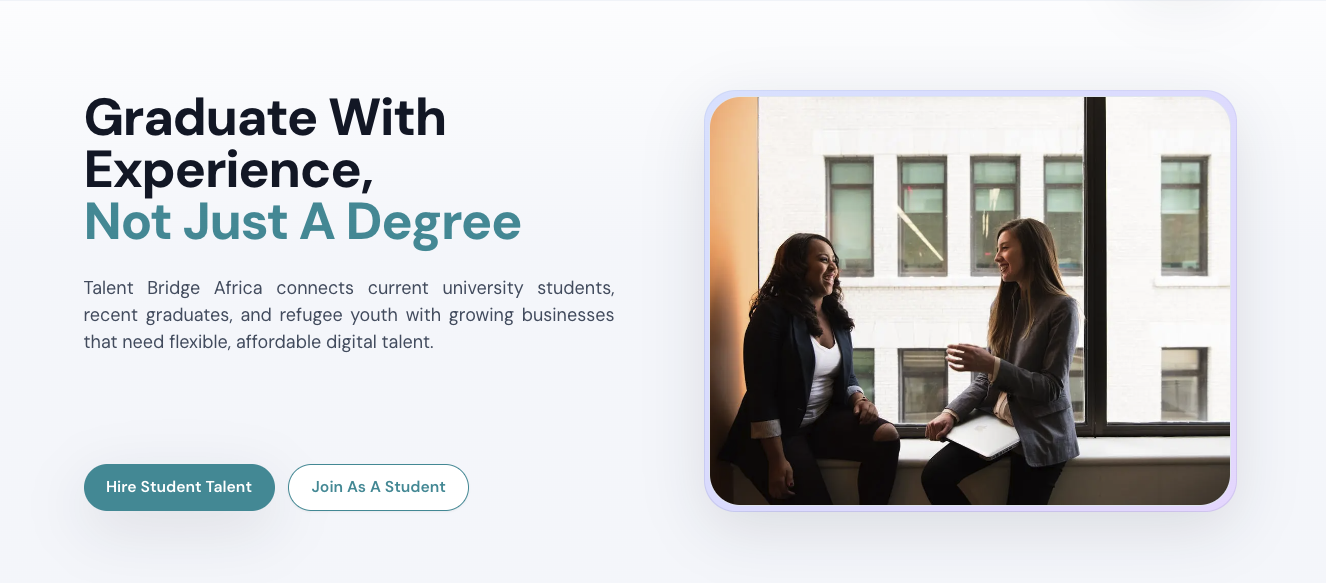
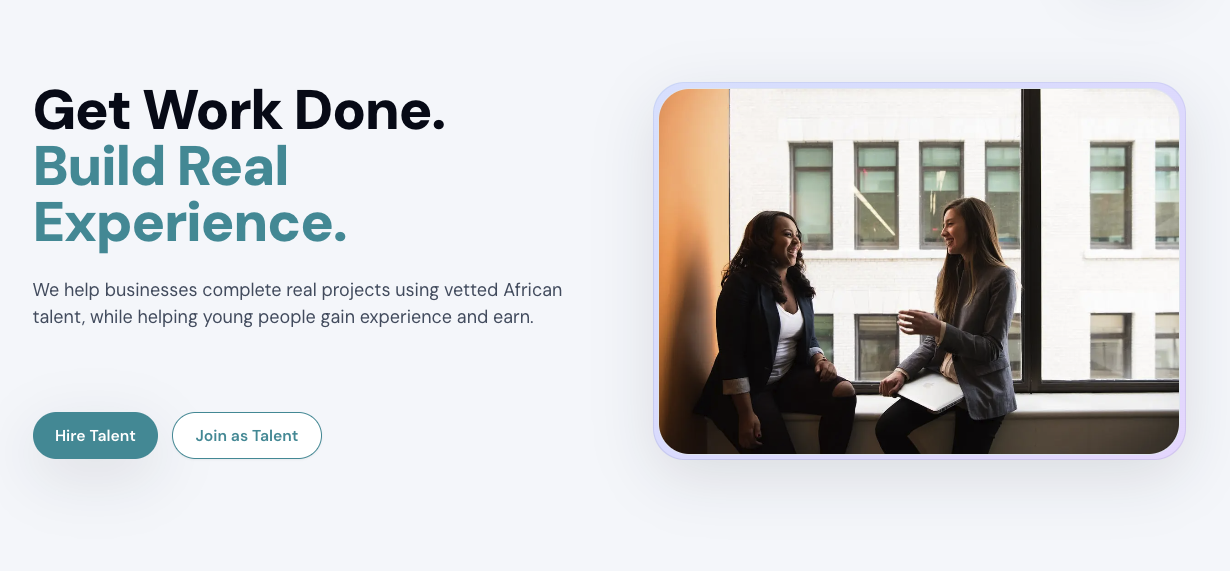
updates

diff --git a/src/app/experience/page.tsx b/src/app/experience/page.tsx
@@ -3,25 +3,110 @@ import Link from "next/link"
 import { ExperienceTimeline } from "./experience-timeline"
 import { experiences } from "@/data/experience"
 import { generatePageSEO } from "@/lib/seo"
-import { ArrowRight, BarChart3, Users, TrendingUp, Calendar } from "lucide-react"
+import {
+  ArrowRight,
+  BarChart3,
+  Users,
+  TrendingUp,
+  Calendar,
+  LineChart,
+  Shield,
+  ScanEye,
+  HeartHandshake,
+  Code,
+} from "lucide-react"
 
 export const metadata: Metadata = generatePageSEO(
   "Experience - Prince Iranzi",
-  "Explore Prince Iranzi's professional experience in software engineering and digital marketing. From freelance projects to full-time roles across East Africa.",
+  "Explore Prince Iranzi's professional experience: data analysis, cybersecurity, perception annotation, social entrepreneurship, software engineering, and digital marketing across East Africa.",
   "/experience"
 )
+
+const domainAreas = [
+  {
+    title: "Data Analysis",
+    description:
+      "Exploring patterns, metrics, and evidence to inform decisions: dashboards, reporting, and turning raw information into clear, actionable insight.",
+    Icon: LineChart,
+  },
+  {
+    title: "Cybersecurity",
+    description:
+      "Building and operating with security in mind: threat awareness, safe practices in development, and protecting users and systems.",
+    Icon: Shield,
+  },
+  {
+    title: "Perception Annotation",
+    description:
+      "Contributing to high-quality training data through careful labeling and human-in-the-loop workflows that improve how models understand the world.",
+    Icon: ScanEye,
+  },
+  {
+    title: "Social Entrepreneurship",
+    description:
+      "Designing initiatives that pair impact with sustainability, including ventures and projects where social good and long-term viability go hand in hand.",
+    Icon: HeartHandshake,
+  },
+  {
+    title: "Software Engineering",
+    description:
+      "Full-stack development: web and mobile apps, APIs, PWAs, and reliable systems built with modern stacks from React and Next.js to databases and cloud deployment.",
+    Icon: Code,
+  },
+  {
+    title: "Digital Marketing",
+    description:
+      "Growth-focused campaigns: SEO, content, social media, and paid ads, measuring what works and iterating to reach the right audiences with clear results.",
+    Icon: TrendingUp,
+  },
+] as const
 
 export default function ExperiencePage() {
   return (
     <div className="py-16 sm:py-20 px-4 sm:px-6 lg:px-8">
-      <div className="container mx-auto max-w-4xl">
+      <div className="site-content">
+        {/* Additional domains (first) */}
+        <section className="mb-16 sm:mb-20" aria-labelledby="domains-heading">
+          <h2
+            id="domains-heading"
+            className="text-2xl sm:text-3xl font-bold text-foreground font-display text-center mb-3"
+          >
+            Broader domains
+          </h2>
+          <p className="text-center text-muted-foreground max-w-2xl mx-auto mb-10 text-sm sm:text-base leading-relaxed">
+            Data analysis, cybersecurity, perception annotation, social entrepreneurship,
+            software engineering, and digital marketing. I deepen my practice in these domains
+            through study, projects, or mission-driven work.
+          </p>
+          <div className="grid grid-cols-1 sm:grid-cols-2 gap-4 sm:gap-6">
+            {domainAreas.map(({ title, description, Icon }) => (
+              <div
+                key={title}
+                className="rounded-xl border border-border/60 bg-card/50 p-6 sm:p-7 hover:border-primary/30 hover:shadow-md hover:shadow-primary/5 transition-all duration-300"
+              >
+                <div className="flex items-start gap-4">
+                  <div className="flex h-11 w-11 shrink-0 items-center justify-center rounded-lg bg-primary/10 text-primary">
+                    <Icon className="h-5 w-5" aria-hidden />
+                  </div>
+                  <div className="min-w-0">
+                    <h3 className="text-lg font-semibold text-foreground font-display mb-2">
+                      {title}
+                    </h3>
+                    <p className="text-sm text-muted-foreground leading-relaxed">{description}</p>
+                  </div>
+                </div>
+              </div>
+            ))}
+          </div>
+        </section>
+
         {/* Header */}
         <header className="text-center mb-16 sm:mb-20">
           <h1 className="text-4xl sm:text-5xl lg:text-6xl font-bold text-foreground font-display tracking-tight mb-6">
             Experience & Impact
           </h1>
           <p className="text-lg sm:text-xl text-muted-foreground max-w-2xl mx-auto leading-relaxed">
-            My journey in software engineering and digital marketing—building products
+            My journey in software engineering and digital marketing: building products
             and campaigns that create real impact.
           </p>
         </header>

diff --git a/src/data/projects.ts b/src/data/projects.ts
@@ -25,7 +25,7 @@ export type Project = z.infer<typeof ProjectSchema>;
 
 const rawProjects: Project[] = [
   {
-    title: "Talent Bridge Africa – Student Talent Studio",
+    title: "Talent Bridge Africa - Student Talent Studio",
     slug: "talent-bridge-africa",
     summary: "Student-powered talent studio connecting African students, graduates, and refugee youth with growing businesses that need flexible digital talent.",
     tags: ["Web", "Talent Platform"],
@@ -47,7 +47,7 @@ const rawProjects: Project[] = [
     ]
   },
   {
-    title: "Byishimo Patrick – Gospel Artist Portfolio",
+    title: "Byishimo Patrick - Gospel Artist Portfolio",
     slug: "byishimo-patrick-artist",
     summary: "Official portfolio for gospel artist Patrick Byishimo, showcasing music, ministry story, events, and contact information.",
     tags: ["Web", "Artist Portfolio"],
@@ -69,7 +69,7 @@ const rawProjects: Project[] = [
     ]
   },
   {
-    title: "TekRiders – Offline-first PWA E-Learning Platform",
+    title: "TekRiders - Offline-first PWA E-Learning Platform",
     slug: "tekriders",
     summary: "Offline-first PWA for marginalized youth (Rwanda). Caches course metadata and supports sync between PouchDB (client) and CouchDB (server).",
     tags: ["Web App", "PWA", "EdTech"],
@@ -88,7 +88,7 @@ const rawProjects: Project[] = [
     results: ["Successfully deployed and tested with 50+ learners", "Achieved 95% offline functionality", "Reduced data usage by 60% through intelligent caching"]
   },
   {
-    title: "International Anglican Revival Ministries – Church Website",
+    title: "International Anglican Revival Ministries - Church Website",
     slug: "iarm-ministries",
     summary: "Ministry site for IARM in Edmonton, outlining service times, ministries, and donation options for a multicultural congregation.",
     tags: ["Web", "Nonprofit", "Ministry"],
@@ -119,7 +119,7 @@ const rawProjects: Project[] = [
     outcomes: ["Created 100+ graphics for various events and platforms", "Enhanced brand visibility for educational institutions"]
   },
   {
-    title: "Probity Partners East Africa (PPEA) – Law Firm Website",
+    title: "Probity Partners East Africa (PPEA) - Law Firm Website",
     slug: "ppea-law",
     summary: "Informational site for Probity Partners East Africa with service pages and contact.",
     tags: ["Web", "Corporate"],
@@ -135,7 +135,7 @@ const rawProjects: Project[] = [
     outcomes: ["Improved online presence", "Increased client inquiries by 25%"]
   },
   {
-    title: "Mindsafi – Mental Health Website",
+    title: "Mindsafi - Mental Health Website",
     slug: "mindsafi",
     summary: "Marketing site for mental health services with resources and contact funnel.",
     tags: ["Web", "Healthcare"],
@@ -151,7 +151,7 @@ const rawProjects: Project[] = [
     outcomes: ["Increased awareness of mental health services", "Improved accessibility compliance"]
   },
   {
-    title: "BookHub – Library Management System",
+    title: "BookHub - Library Management System",
     slug: "bookhub",
     summary: "CRUD library system: catalog, lending, user roles; admin dashboard.",
     tags: ["Platform", "CRUD"],
@@ -183,7 +183,7 @@ const rawProjects: Project[] = [
     outcomes: ["Reduced deployment time by 80%", "Improved system reliability"]
   },
   {
-    title: "Olearn – Mobile E-Learning",
+    title: "Olearn - Mobile E-Learning",
     slug: "olearn-mobile",
     summary: "Mobile learning app with course modules and assessments.",
     tags: ["Mobile", "EdTech"],
@@ -199,7 +199,7 @@ const rawProjects: Project[] = [
     outcomes: ["Launched on both iOS and Android", "10,000+ downloads"]
   },
   {
-    title: "Earthwise – Mobile App",
+    title: "Earthwise - Mobile App",
     slug: "earthwise-mobile",
     summary: "Conservation awareness & community actions tracker.",
     tags: ["Mobile", "Conservation"],
@@ -230,7 +230,7 @@ const rawProjects: Project[] = [
     outcomes: ["Improved file organization", "Enhanced security measures"]
   },
   {
-    title: "Skillhub – E-Learning Platform",
+    title: "Skillhub - E-Learning Platform",
     slug: "skillhub",
     summary: "Web e-learning with courses, progress tracking, and quizzes.",
     tags: ["Web App", "EdTech"],
@@ -278,7 +278,7 @@ const rawProjects: Project[] = [
     outcomes: ["Showcased client's impact in women empowerment", "Professional portfolio presentation", "Mobile-first responsive design"]
   },
   {
-    title: "Patrick Iranzi – Personal Leadership Portfolio",
+    title: "Patrick Iranzi - Personal Leadership Portfolio",
     slug: "patrick-portfolio",
     summary: "Personal portfolio highlighting leadership journey, key artifacts, and experiences as an ALU student and emerging entrepreneur.",
     tags: ["Web", "Portfolio"],

diff --git a/src/app/page.tsx b/src/app/page.tsx
@@ -26,7 +26,7 @@ export default function Home() {
 
         {/* Stats Section */}
         <section className="py-16 px-4 sm:px-6 lg:px-8 bg-muted/30">
-          <div className="container mx-auto max-w-6xl">
+          <div className="site-content">
             <div className="grid grid-cols-2 md:grid-cols-4 gap-6">
               {[
                 { value: "50+", label: "Projects Delivered" },
@@ -49,7 +49,7 @@ export default function Home() {
 
         {/* Featured Projects */}
         <section className="py-20 px-4 sm:px-6 lg:px-8">
-          <div className="container mx-auto max-w-7xl">
+          <div className="site-content">
             <ScrollReveal direction="up">
               <div className="text-center mb-12">
                 <h2 className="text-3xl sm:text-4xl font-bold text-foreground mb-3 font-display">
@@ -87,7 +87,7 @@ export default function Home() {
 
         {/* Services Preview */}
         <section className="py-20 px-4 sm:px-6 lg:px-8 bg-muted/30">
-          <div className="container mx-auto max-w-6xl">
+          <div className="site-content">
             <ScrollReveal direction="up">
               <div className="text-center mb-12">
                 <h2 className="text-3xl sm:text-4xl font-bold text-foreground mb-3 font-display">
@@ -169,7 +169,7 @@ export default function Home() {
 
         {/* CTA Section */}
         <section className="py-20 px-4 sm:px-6 lg:px-8">
-          <div className="container mx-auto max-w-4xl">
+          <div className="site-content">
             <ScrollReveal direction="up">
               <div className="text-center p-8 bg-card border border-border rounded-2xl">
                 <h2 className="text-3xl sm:text-4xl font-bold text-foreground mb-4 font-display">

diff --git a/src/app/globals.css b/src/app/globals.css
@@ -41,6 +41,8 @@
   --radius-md: calc(var(--radius) - 2px);
   --radius-lg: var(--radius);
   --radius-xl: calc(var(--radius) + 4px);
+  /* Standard content width: 1280px (common for marketing / portfolio layouts) */
+  --max-width-site: 80rem;
 }
 
 :root {
@@ -150,6 +152,14 @@
 }
 
 @layer utilities {
+  /* Max width + horizontal padding: header, footer, hero */
+  .site-container {
+    @apply mx-auto w-full max-w-site px-4 sm:px-6 lg:px-8;
+  }
+  /* Max width only; use inside sections that already set horizontal padding */
+  .site-content {
+    @apply mx-auto w-full max-w-site;
+  }
   .gradient-text {
     @apply text-primary;
   }

diff --git a/src/components/hero-section.tsx b/src/components/hero-section.tsx
@@ -21,7 +21,7 @@ export function HeroSection() {
       <div className="absolute top-1/4 right-1/4 w-96 h-96 bg-primary/5 rounded-full blur-3xl pointer-events-none" />
       <div className="absolute bottom-1/4 left-1/4 w-96 h-96 bg-accent/5 rounded-full blur-3xl pointer-events-none" />
 
-      <div className="container mx-auto px-4 sm:px-6 lg:px-8 relative z-10">
+      <div className="site-container relative z-10">
         <div className="grid grid-cols-1 lg:grid-cols-2 gap-12 lg:gap-20 items-center">
           {/* Left Content */}
           <div className="text-left space-y-8">

diff --git a/src/app/experience/experience-timeline.tsx b/src/app/experience/experience-timeline.tsx
@@ -76,7 +76,7 @@ export function ExperienceTimeline({ experiences }: { experiences: Experience[] 
                         <span className="flex items-center gap-1.5">
                           <Calendar className="h-3.5 w-3.5" />
                           {exp.startDate}
-                          {exp.current ? " – Present" : ` – ${exp.endDate}`}
+                          {exp.current ? " - Present" : ` - ${exp.endDate}`}
                         </span>
                       </div>
                     </div>

diff --git a/src/components/testimonials.tsx b/src/components/testimonials.tsx
@@ -39,7 +39,7 @@ const testimonials: Testimonial[] = [
 export function Testimonials() {
   return (
     <section className="py-20 px-4 sm:px-6 lg:px-8 bg-muted/30">
-      <div className="container mx-auto max-w-7xl">
+      <div className="site-content">
         <ScrollReveal direction="up">
           <div className="text-center mb-12">
             <h2 className="text-3xl sm:text-4xl font-bold text-foreground mb-3 font-display">

diff --git a/src/components/footer.tsx b/src/components/footer.tsx
@@ -30,7 +30,7 @@ const quickLinks = [
 export function Footer() {
   return (
     <footer className="border-t border-primary-foreground/20 bg-primary text-primary-foreground">
-      <div className="container mx-auto px-4 py-12 sm:px-6 lg:px-8">
+      <div className="site-container py-12">
         <div className="grid grid-cols-1 gap-8 md:grid-cols-4">
           {/* Brand */}
           <div className="col-span-1 md:col-span-2">

diff --git a/src/app/projects/page.tsx b/src/app/projects/page.tsx
@@ -11,7 +11,7 @@ export const metadata: Metadata = generatePageSEO(
 export default function ProjectsPage() {
   return (
     <div className="py-20 px-4 sm:px-6 lg:px-8">
-      <div className="container mx-auto max-w-6xl">
+      <div className="site-content">
         <div className="text-center mb-16">
           <h1 className="text-4xl sm:text-5xl font-bold text-foreground mb-4">
             My Projects

diff --git a/src/app/contact/page.tsx b/src/app/contact/page.tsx
@@ -21,7 +21,7 @@ export const metadata: Metadata = generatePageSEO(
 export default function ContactPage() {
   return (
     <div className="py-20 px-4 sm:px-6 lg:px-8">
-      <div className="container mx-auto max-w-6xl">
+      <div className="site-content">
         {/* Header */}
         <div className="text-center mb-16">
           <h1 className="text-4xl sm:text-5xl font-bold text-foreground mb-4">

diff --git a/src/app/blog/page.tsx b/src/app/blog/page.tsx
@@ -43,7 +43,7 @@ const blogPosts = [
 export default function BlogPage() {
   return (
     <div className="py-20 px-4 sm:px-6 lg:px-8">
-      <div className="container mx-auto max-w-4xl">
+      <div className="site-content">
         {/* Header */}
         <div className="text-center mb-16">
           <h1 className="text-4xl sm:text-5xl font-bold text-foreground mb-4">

diff --git a/src/app/about/page.tsx b/src/app/about/page.tsx
@@ -33,7 +33,7 @@ export default function AboutPage() {
 
   return (
     <div className="py-20 px-4 sm:px-6 lg:px-8">
-      <div className="container mx-auto max-w-4xl">
+      <div className="site-content">
         {/* Hero Section */}
         <div className="text-center mb-16">
           <h1 className="text-4xl sm:text-5xl font-bold text-foreground mb-6">
